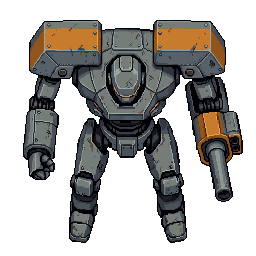
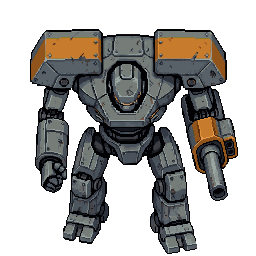
아트: 이동 10벌 중 4벌 교체 — 포즈 그려 넣기로 다리 교차 (남·북 교차 실측 · 동·서 여닫힘)
문안 네 번이 모두 상하 진동만 냈다. v3 에 골격이 없다는 것이 원인.
다리 구간만 inpaint 하고 대칭축으로 되접어 반대 포즈를 만든 뒤 두 포즈를 보간.
앞선 「아랫변 27px = 다리를 든다」 보고를 정정했다 — 좌우를 갈라 재지 않은 값이었다.

diff --git a/Docs/art_log/make_art_log.py b/Docs/art_log/make_art_log.py
@@ -659,6 +659,63 @@ A("⚠ **진폭이 방향마다 다르다** — 대기가 남 8.2% · 북 4.3
 A("규격 4~6% 안에 드는 것은 북·서 둘뿐이다. **이제 잴 수 있으므로** ❓2-6 진폭 대역 판정의 재료가 생겼다 —")
 A("규격을 방향별로 둘지, 대역을 넓힐지는 설계 판정이다. 구현이 정하지 않는다.")
 A("")
+A("#### 3-11. 이동 — **포즈를 그려 넣어 다리를 교차시켰다** (사용자 확정 2026-09-07 「이 걸음으로 간다」)")
+A("")
+A("##### 먼저 — 앞선 보고 하나를 정정한다")
+A("")
+A("「이동 아랫변이 27px 움직인다 = 다리를 든다」로 적었던 것은 **좌우를 갈라 재지 않은 값**이었다.")
+A("갈라 재니 두 다리 아랫변이 함께 241→235→224→215→225→242 로 움직였다(좌우 차 최대 6px).")
+A("걸음이 아니라 **몸통 전체가 쪼그렸다 펴지는 것**이었다. 사용자 지적이 맞았다.")
+A("")
+A("##### 왜 문안으로는 안 되는가")
+A("")
+A("`animate_character` v3 에는 **골격이 없다.** 스프라이트 한 장을 받아 실루엣 전체를 변형할 뿐")
+A("어느 픽셀이 왼다리인지 모른다. 그래서 「왼다리가 들리는 동안 오른다리는 붙어 있다」로 못 박아도")
+A("반영될 자리가 없다. **문안 네 번이 모두 상하 진동을 냈다.**")
+A("")
+A("**템플릿(골격) 모드는 정체성을 잃는다** — 09-07 3차에서 이미 봤고, 새 앵커로 다시 걸어 확인했다")
+A("(`bb286e23` · 진단용 1 생성). 이번엔 다리조차 안 움직였다 — 좌우 차가 6칸 중 4칸에서 정확히 0.")
+A("**골격을 얻으면 정체성을 잃고, 정체성을 지키면 골격이 없다**가 이 도구의 실제 맞바꿈이다.")
+A("")
+A("##### 방식 — 포즈를 말로 시키지 않고 그림으로 준다")
+A("")
+A("| 단계 | 무엇 | 비용 |")
+A("|---|---|---|")
+A("| 1 | 승인본·회전본의 **다리 구간만** `inpaint_image` 로 다시 그린다 (마스크 밖은 얼어 있다) | 20/장 |")
+A("| 2 | 반대쪽 포즈는 **다리 구간의 대칭축으로 되접어** 만든다 (남·북) | 0 |")
+A("| 3 | 두 포즈를 `custom_start_frame_url` · `end_frame_url` 로 주고 v3 보간 | 4/방향 |")
+A("")
+A("**되접기의 근거는 실측이다** — 다리 구간이 남면 x=127 축에서 **98.7%**, 북면 x=127 에서 **98.0%** 좌우 대칭이다.")
+A("비대칭인 총열 팔(15-1 3-2)은 마스크 밖이라 건드리지 않는다. 되접기는 공짜이고 정확한데,")
+A("오른발 앞 포즈를 도구로 뽑은 두 번은 모두 깨졌다(주황 덩어리 · 조각난 다리).")
+A("")
+A("##### 실측 — 좌우 아랫변의 차 (부호가 뒤집히면 교차한 것이다)")
+A("")
+A("| 방향 | 칸별 좌우 차 | 판정 |")
+A("|---|---|---|")
+A("| 남 | −29 · −13 · +10 · +25 · +29 · +10 | **교차** |")
+A("| 북 | −20 · −11 · +2 · +22 · +20 · +2 | **교차** |")
+A("| (구 벌 · 남) | 0 · −1 · −2 · −6 · −1 · 0 | 교차 없음 |")
+A("")
+A("**옆모습(동·서)은 다른 잣대로 잰다** — 두 다리가 겹쳐 좌우로 못 가른다. 발 구간의 가로폭으로 재면")
+A("동 92→53→92 (39px 여닫힘) · 서 98→37→94 (61px). 다리가 벌어졌다 모인다.")
+A("")
+A("⚠ **옆모습은 한쪽만 앞으로 나간다.** 동·서는 「앞뒤가 바뀐 반대 포즈」를 두 번 뽑아 두 번 다 깨져서")
+A("(다리가 얇은 칼날로 변함) **선 자세 ↔ 벌린 자세** 보간으로 갔다. 12.2mm 에서 어느 다리가 앞인지는")
+A("거의 안 읽히지만, 남·북과 달리 발이 서로 바뀌지는 않는다 — **아는 한계로 적어 둔다.**")
+A("")
+A("⚠ **서면 마스크는 정강이·발만 덮는다.** 서면은 총열이 허벅지 위를 가로질러(y165~200) 있어")
+A("그 위를 다시 그리면 총을 잃는다. 그래서 y202 아래만 열었다.")
+A("")
+A("##### 규격과 어긋나는 자리 — **6 그림**")
+A("")
+A("포즈 방식은 반 바퀴 5장을 낸다. 자연스러운 한 바퀴는 **왕복 8칸**(대기와 같은 꼴)인데 규격은 이동 6 그림이다.")
+A("코드를 안 건드리고 오늘 서는 쪽으로 **`f0·f1·f2·f3·f4·f2` 여섯 칸**으로 설치했다 — 가운데(발이 모이는 칸)를")
+A("돌아오는 길에 한 번 더 쓴다. 원본 5장은 `Docs/art_log/candidates/robot_a_Move_pose_all/` 에 있다.")
+A("")
+A("**더 나은 길은 왕복 재생이다** — `PINGPONG_STATES` 에 `Move` 를 더하면 5장이 8칸으로 정확히 돈다.")
+A("`Assets/_Project/Scripts/**` 는 이 세션 소유가 아니라 「→ 플랜」 문서로 올린다.")
+A("")
 A("#### 남은 길 — 작게 뽑아 투명 여백을 덧대는 것")
 A("")
 A("도구가 캔버스를 채운다면 **캔버스를 작게 주고 그 결과를 256 안에 가운데로 놓으면 된다.**")
